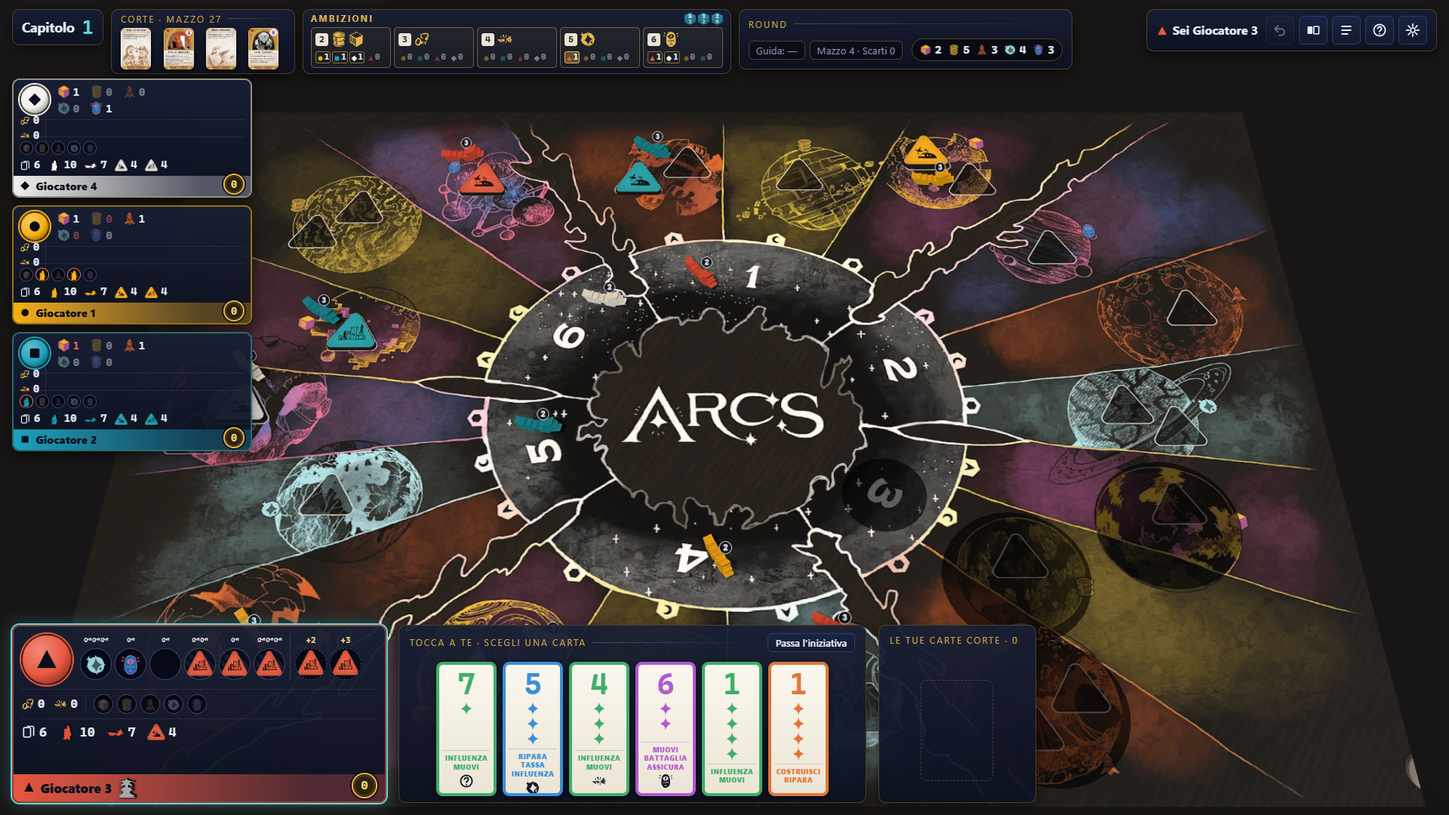
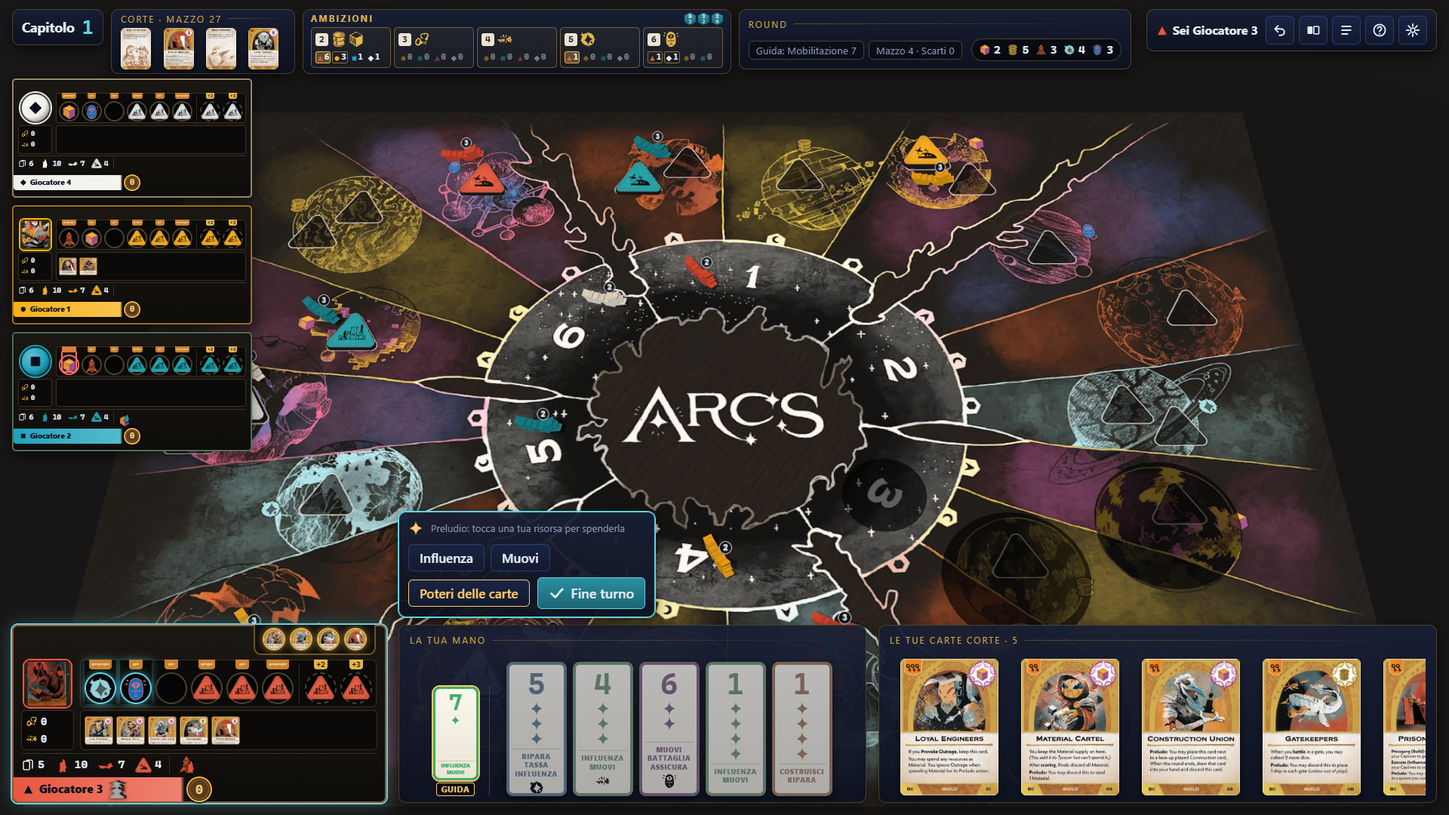
feat: seat boards laid out like the owner's reference
Leader picture top left, prelude tab top right (cards with a prelude power
or a new action, lit and clickable when usable now), resource slots with
key tabs and the unbuilt cities on them, captives and trophies beside the
guild cards (hover to zoom), reserve and Outraged resources (covered by an
agent), name bar with the power ring. Rivals get the same board, smaller.

Story: table roadmap step 3 (player board)

diff --git a/src/ui/table/table.css b/src/ui/table/table.css
@@ -582,66 +582,6 @@ button.supply:hover { border-color: var(--rule-hi); }
 .amb-t .tl.first { background: rgba(230, 181, 74, .32); box-shadow: inset 0 0 0 1px var(--gold); }
 .amb-t .tl.second { box-shadow: inset 0 0 0 1px rgba(230, 181, 74, .55); }
 
-/* Seat boards (local and rivals) */
-.board { position: relative; font: inherit; color: inherit; text-align: left; display: grid; gap: 5px; align-content: start; padding: 8px 10px 0; overflow: hidden;
-  background: linear-gradient(180deg, rgba(24, 31, 52, .95), rgba(12, 17, 32, .95)); border: 2px solid color-mix(in srgb, var(--seat) 50%, #3a3220); border-radius: 10px; box-shadow: 0 6px 18px #0008; }
-.board.active { box-shadow: 0 0 0 2px var(--rule-hi), 0 0 24px rgba(95, 212, 230, .35); }
-.board .b-top { display: flex; gap: 10px; align-items: flex-start; }
-.board .b-mid { display: flex; gap: 10px; align-items: center; min-height: 34px; padding: 3px 0; border-top: 1px solid #ffffff14; border-bottom: 1px solid #ffffff14; }
-.board .spoils { display: flex; gap: 12px; padding-right: 10px; border-right: 1px solid #ffffff14; }
-.board .st { display: inline-flex; align-items: center; gap: 4px; }
-.board .st .ic { width: 18px; height: 18px; }
-.board .st .pc { width: 21px; height: 21px; object-fit: contain; }
-.board .stats { background: none; padding: 0; gap: 16px; flex-wrap: nowrap; font-size: .95em; border-radius: 0; }
-.board .name-bar { margin: 1px -10px 0; padding: 4px 10px 4px 12px; display: flex; align-items: center; gap: 7px; font-weight: 800;
-  background: linear-gradient(90deg, var(--seat), color-mix(in srgb, var(--seat) 30%, #10162a) 80%); color: #0b0f1c; }
-.board .name-bar .seat-c, .board .name-bar .init-mark { color: #0b0f1c; display: inline-flex; }
-.board .name-bar .pow { margin-left: auto; width: 34px; height: 34px; margin-top: -12px; margin-bottom: -6px; border-radius: 50%; display: grid; place-items: center;
-  background: radial-gradient(circle, #2a2210 58%, #6b5320 60%, #2a2210 66%); border: 2px solid var(--gold); color: var(--gold-hi); font-size: 16px; box-shadow: 0 0 0 2px #000a; }
-.board .portrait-btn { background: none; border: 0; padding: 0; cursor: pointer; border-radius: 50%; }
-.board.local { height: 100%; }
-.board.local .portrait { width: 64px; height: 64px; font-size: 32px; }
-.board .slots { gap: 5px; padding-top: 0; align-items: flex-end; }
-.board .slot { width: 40px; height: auto; display: grid; grid-template-rows: 14px 40px; gap: 3px; background: none; border: 0; border-radius: 0; font-size: 26px; place-items: center; }
-.board .slot .keys { position: static; background: none; border: 0; padding: 0; justify-content: center; color: var(--gold); gap: 0; font-size: 11px; }
-.board .slot .keys .ic { width: 9px; height: 9px; }
-.board .slot .keys.plus { color: var(--gold-hi); }
-.board .slot .well { width: 40px; height: 40px; display: grid; place-items: center; border-radius: 50%; background: #070b17; border: 1px solid #3a4468; box-shadow: inset 0 2px 6px #000a; }
-.board .slot.locked { background: none; }
-.board .slot.locked .well { background: repeating-linear-gradient(45deg, #0a0f1e 0 5px, #151d33 5px 10px); color: var(--text-faint); font-size: 16px; }
-.board .slot .on-city .pc { width: 34px; height: 34px; }
-.board .slot.bonus .well { border-style: dashed; }
-.board .slot.spend { cursor: pointer; box-shadow: none; }
-.board .slot.spend .well { border-color: var(--rule-hi); box-shadow: 0 0 10px rgba(95, 212, 230, .55); }
-.board .slot.chosen .well { box-shadow: var(--select); }
-.board .slot.outraged::after { inset: 17px 0 0; border-radius: 50%; }
-.board .slot-sep { width: 1px; align-self: stretch; background: #ffffff22; margin: 0 2px; }
-.board .outrage { display: flex; gap: 5px; align-items: center; }
-.board .o-space { position: relative; width: 26px; height: 26px; border-radius: 50%; display: grid; place-items: center; background: #070b17; border: 1px solid #3a4468; box-shadow: inset 0 2px 5px #000a; }
-.board .o-space .o-res { display: inline-flex; font-size: 16px; opacity: .55; filter: grayscale(.4); }
-.board .o-space.on { border-color: var(--danger); }
-.board .o-space .o-agent { position: absolute; inset: -3px; display: grid; place-items: center; }
-.board .o-space .o-agent .pc { width: 24px; height: 24px; object-fit: contain; filter: drop-shadow(0 2px 2px #000c); }
-.board.rival .outrage { gap: 3px; padding: 2px 0 1px; }
-.board.rival .o-space { width: 18px; height: 18px; }
-.board.rival .o-space .o-res { font-size: 11px; }
-.board.rival .o-space .o-agent .pc { width: 17px; height: 17px; }
-.tbl-stage .rivals .board.rival { width: 318px; height: 158px; flex: none; cursor: pointer; padding: 6px 8px 0; gap: 3px; }
-.board.rival .portrait { width: 40px; height: 40px; font-size: 20px; }
-.board.rival .held { display: grid; grid-template-columns: repeat(3, auto); gap: 1px 14px; font-size: .9em; }
-.board.rival .held .ic { width: 17px; height: 17px; }
-.board.rival .held .st.zero { opacity: .45; }
-.board.rival .held .st.outraged b { color: var(--danger); }
-.board.rival .b-mid { min-height: 0; padding: 2px 0; }
-.board.rival .spoils { flex-direction: column; gap: 1px; font-size: .85em; padding-right: 8px; }
-.board.rival .spoils .ic { width: 14px; height: 14px; }
-.board.rival .mini-card, .board.rival .mini-card.has-art { width: 26px; height: 36px; }
-.board.rival .mini-cards { flex-wrap: nowrap; }
-.board.rival .stats { gap: 11px; font-size: .86em; }
-.board.rival .stats .ic { width: 15px; height: 15px; }
-.board.rival .stats .pc { width: 17px; height: 17px; }
-.board.rival .name-bar { margin: 1px -8px 0; padding: 3px 8px; font-size: .9em; }
-.board.rival .name-bar .pow { width: 28px; height: 28px; font-size: 14px; margin-top: -9px; margin-bottom: -4px; }
 
 /* Hand title with the pass and redraw buttons */
 .hand-top { display: flex; align-items: center; gap: 8px; margin-bottom: 2px; }
@@ -667,19 +607,6 @@ button.supply:hover { border-color: var(--rule-hi); }
 
 /* Layout v3 fixes */
 .tbl-stage .round-strip .chips { flex-wrap: nowrap; max-width: none; }
-.board .spoils .ic { color: var(--gold); }
-.board .name-bar .init-img { width: 26px; height: 26px; margin: -6px 0; filter: drop-shadow(0 1px 2px #0009); }
-.board.local { grid-template-rows: auto auto auto 1fr; padding-top: 10px; }
-.board.local .name-bar { align-self: end; padding-top: 6px; padding-bottom: 6px; font-size: 1.05em; }
-.board.local .portrait { width: 68px; height: 68px; font-size: 34px; }
-.board.local .slots { gap: 4px; }
-.board.local .slot { width: 42px; grid-template-rows: 16px 42px; }
-.board.local .slot .well { width: 42px; height: 42px; }
-.board.local .slot .keys .ic { width: 11px; height: 11px; }
-.board.local .b-mid { min-height: 40px; }
-.board.local .stats { font-size: 1.05em; }
-.board.local .stats .ic { width: 20px; height: 20px; }
-.board.local .stats .pc { width: 24px; height: 24px; }
 .tbl .sr-only { position: absolute; width: 1px; height: 1px; overflow: hidden; clip-path: inset(50%); white-space: nowrap; }
 .card-sheet .amb-glyph { grid-template-columns: 1fr; width: 150px; }
 .card-sheet .amb-glyph .big { display: flex; justify-content: center; gap: 4px; }
@@ -715,3 +642,70 @@ button.supply:hover { border-color: var(--rule-hi); }
 .amb-col { width: 106px; }
 /* A rival that has not played yet: nothing beside its board */
 .play.none { border: 0; background: none; }
+
+/* ---- Seat boards, drawn like the physical one (local and rivals; rivals at --u scale) ---- */
+.board { --u: 1px; position: relative; font: inherit; color: inherit; text-align: left; display: grid; grid-template-rows: auto 1fr auto; padding: 0; overflow: visible;
+  background: linear-gradient(180deg, #1b1712, #0f0d0b); border: 2px solid color-mix(in srgb, var(--seat) 35%, #6b5320); border-radius: calc(8 * var(--u)); box-shadow: 0 6px 18px #0008, inset 0 0 0 1px #000a; }
+.board.rival { --u: .64px; }
+.board.active { box-shadow: 0 0 0 2px var(--rule-hi), 0 0 24px rgba(95, 212, 230, .35); }
+.board.local { height: 100%; }
+.tbl-stage .rivals .board.rival { width: 318px; height: 158px; flex: none; cursor: pointer; }
+.board .pb-tab { grid-row: 1; justify-self: end; display: flex; gap: calc(6 * var(--u)); margin: calc(-2 * var(--u)) calc(12 * var(--u)) 0 0; padding: calc(4 * var(--u)) calc(10 * var(--u));
+  background: #0f0d0b; border: 2px solid #6b5320; border-top: 0; border-radius: 0 0 calc(10 * var(--u)) calc(10 * var(--u)); }
+.board .pre { width: calc(30 * var(--u)); height: calc(30 * var(--u)); padding: 0; border-radius: 50%; overflow: hidden; border: 2px solid #6b5320; background: #070b17; display: grid; place-items: center; opacity: .45; filter: grayscale(.8); }
+.board .pre img { width: 100%; height: 100%; object-fit: cover; transform: scale(1.8); transform-origin: 50% 32%; }
+.board .pre.lit { opacity: 1; filter: none; cursor: pointer; border-color: var(--gold); box-shadow: 0 0 10px rgba(230, 181, 74, .7); }
+.board .pre.lit:hover { transform: translateY(-2px); }
+.board .pb-body { grid-row: 2; display: grid; grid-template-columns: calc(70 * var(--u)) 1fr; grid-template-rows: auto 1fr auto; column-gap: calc(8 * var(--u)); row-gap: calc(4 * var(--u));
+  padding: calc(6 * var(--u)) calc(10 * var(--u)) calc(4 * var(--u)); align-content: stretch; }
+.board .pb-face { grid-row: 1; grid-column: 1; align-self: end; display: grid; justify-items: center; }
+.board .portrait { width: calc(62 * var(--u)); height: calc(62 * var(--u)); font-size: calc(30 * var(--u)); }
+.board .portrait.leader { border-radius: calc(8 * var(--u)); }
+.board .portrait.leader { overflow: hidden; }
+.board .portrait.leader img { object-fit: cover; transform: scale(1.9); transform-origin: 50% 30%; }
+.board .portrait-btn { background: none; border: 0; padding: 0; cursor: pointer; border-radius: 50%; }
+.board .slots { grid-row: 1; grid-column: 2; display: flex; gap: calc(5 * var(--u)); padding: 0 calc(6 * var(--u)) calc(4 * var(--u)); align-items: flex-end; justify-self: start;
+  background: #0b0a08; border-radius: calc(6 * var(--u)); box-shadow: inset 0 0 0 1px #3a3220; }
+.board .slot { width: calc(42 * var(--u)); height: auto; display: grid; grid-template-rows: calc(15 * var(--u)) calc(42 * var(--u)); gap: calc(2 * var(--u)); background: none; border: 0; border-radius: 0; font-size: calc(28 * var(--u)); place-items: center; padding: 0; color: inherit; }
+.board .slot .keys { position: static; align-self: start; display: inline-flex; justify-content: center; gap: 0; padding: 0 calc(3 * var(--u)); min-width: calc(18 * var(--u)); height: calc(13 * var(--u));
+  background: #c9822b; color: #2a1606; border: 0; border-radius: 0 0 calc(4 * var(--u)) calc(4 * var(--u)); font: 800 calc(10 * var(--u)) var(--font-num); align-items: center; }
+.board .slot .keys .ic { width: calc(8 * var(--u)); height: calc(8 * var(--u)); }
+.board .slot .keys:empty { visibility: hidden; }
+.board .slot .keys.plus { background: var(--gold); }
+.board .slot .well { width: calc(42 * var(--u)); height: calc(42 * var(--u)); display: grid; place-items: center; border-radius: 50%; background: #050506; border: 2px solid #4a4130; box-shadow: inset 0 2px 6px #000c; }
+.board .slot .well .ic { width: calc(30 * var(--u)); height: calc(30 * var(--u)); }
+.board .slot.locked .well { background: #050506; color: var(--text-faint); font-size: calc(16 * var(--u)); }
+.board .slot .on-city .pc { width: calc(36 * var(--u)); height: calc(36 * var(--u)); object-fit: contain; }
+.board .slot.bonus .well { border-style: dashed; }
+.board .slot.spend { cursor: pointer; }
+.board .slot.spend .well { border-color: var(--rule-hi); box-shadow: 0 0 10px rgba(95, 212, 230, .6); }
+.board .slot.spend:hover .well { transform: translateY(-2px); }
+.board .slot.chosen .well { box-shadow: var(--select); }
+.board .slot.outraged .well { border-color: var(--danger); }
+.board .slot-sep { width: 1px; align-self: stretch; background: #ffffff22; margin: calc(6 * var(--u)) calc(2 * var(--u)) 0; }
+.board .spoils { grid-row: 2; grid-column: 1; display: grid; gap: calc(2 * var(--u)); align-content: center; padding: calc(3 * var(--u)) calc(6 * var(--u));
+  background: #0b0a08; border-radius: calc(6 * var(--u)); box-shadow: inset 0 0 0 1px #3a3220; font-size: calc(14 * var(--u)); }
+.board .spoils .ic { width: calc(16 * var(--u)); height: calc(16 * var(--u)); color: var(--gold); }
+.board .st { display: inline-flex; align-items: center; gap: calc(4 * var(--u)); }
+.board .pb-guild { grid-row: 2; grid-column: 2; display: flex; align-items: center; min-height: calc(42 * var(--u)); padding: calc(3 * var(--u)) calc(6 * var(--u));
+  background: #0b0a08; border-radius: calc(6 * var(--u)); box-shadow: inset 0 0 0 1px #3a3220; }
+.board .mini-cards { flex-wrap: nowrap; gap: calc(4 * var(--u)); }
+.board .mini-card, .board .mini-card.has-art { width: calc(38 * var(--u)); height: calc(38 * var(--u)); border-radius: calc(4 * var(--u)); border: 1px solid #6b5320; }
+.board .mini-card img { object-position: 50% 30%; }
+.board .pb-low { grid-row: 3; grid-column: 1 / -1; display: flex; align-items: center; min-height: calc(28 * var(--u)); border-top: 1px solid #3a3220; padding-top: calc(3 * var(--u)); }
+.board .stats { display: flex; background: none; padding: 0 calc(10 * var(--u)) 0 0; gap: calc(14 * var(--u)); flex-wrap: nowrap; border-radius: 0; font-size: calc(15 * var(--u)); }
+.board .stats .ic { width: calc(18 * var(--u)); height: calc(18 * var(--u)); }
+.board .stats .pc { width: calc(22 * var(--u)); height: calc(22 * var(--u)); object-fit: contain; }
+.board .outrage { flex: 1; align-self: stretch; display: flex; gap: calc(6 * var(--u)); align-items: center; padding-left: calc(10 * var(--u)); border-left: 1px solid #3a3220; }
+.board .o-space { position: relative; width: calc(24 * var(--u)); height: calc(24 * var(--u)); display: grid; place-items: center; }
+.board .o-space .o-res .ic { width: calc(22 * var(--u)); height: calc(22 * var(--u)); }
+.board .o-space .o-agent { position: absolute; inset: 0; display: grid; place-items: center; }
+.board .o-space .o-agent .pc { width: calc(20 * var(--u)); height: calc(20 * var(--u)); object-fit: contain; filter: drop-shadow(0 1px 2px #000); transform: translate(calc(6 * var(--u)), calc(2 * var(--u))); }
+.board .name-bar { grid-row: 3; position: relative; display: flex; align-items: center; gap: calc(7 * var(--u)); padding: calc(5 * var(--u)) calc(12 * var(--u)); font-weight: 800; font-size: calc(15 * var(--u));
+  border-radius: 0 0 calc(6 * var(--u)) calc(6 * var(--u)); background: linear-gradient(90deg, var(--seat) 0, color-mix(in srgb, var(--seat) 75%, #fff) 45%, transparent 46%); color: #0b0f1c; }
+.board .name-bar .seat-c, .board .name-bar .init-mark { color: #0b0f1c; display: inline-flex; }
+.board .name-bar .init-img { width: calc(24 * var(--u)); height: calc(24 * var(--u)); margin: calc(-6 * var(--u)) 0; filter: drop-shadow(0 1px 2px #0009); }
+.board .name-bar .nm { max-width: 38%; overflow: hidden; text-overflow: ellipsis; white-space: nowrap; }
+.board .name-bar .pow { position: absolute; left: 50%; top: 50%; transform: translate(-50%, -50%); width: calc(34 * var(--u)); height: calc(34 * var(--u)); border-radius: 50%; display: grid; place-items: center;
+  background: radial-gradient(circle, #5a3a1a 55%, #8a5a26 58%, #3a2410 70%); border: 2px solid var(--gold); color: var(--gold-hi); font-size: calc(17 * var(--u)); box-shadow: 0 0 0 2px #000a; }
+

diff --git a/src/ui/table/render.ts b/src/ui/table/render.ts
@@ -149,29 +149,64 @@ function slotsHtml(p: PlayerView, t: Translate, spendable: ReadonlySet<number>, 
   return `<div class="slots">${slots}${bonus ? `<span class="slot-sep"></span>${bonus}` : ''}</div>`;
 }
 
-/** Resource tokens held, as counts by type (rival boards). Outraged types are marked. */
-function heldCounts(p: PlayerView, t: Translate): string {
-  return `<div class="held">${p.held
-    .map((h) => `<span class="st${p.outraged.includes(h.resource) ? ' outraged' : ''}${h.count ? '' : ' zero'}" title="${esc(t(`resource.${h.resource}`))}">${resIcon(h.resource, t)}<b class="num">${h.count}</b></span>`)
-    .join('')}</div>`;
-}
-
 /**
- * The Outrage row of a seat board, as on the physical one: a round space per
- * resource type with its icon printed faint; an Outraged type is covered by
- * one of the seat's agents.
+ * The Outrage corner of a seat board: each Outraged resource type, covered by
+ * one of the seat's agents (empty when none).
  */
 function outrage(p: PlayerView, t: Translate): string {
   const agent = pieceIcon('agent', p.id, t('stat.agents'));
-  const spaces = p.held
-    .map((h) => {
-      const label = t(`resource.${h.resource}`);
-      const on = p.outraged.includes(h.resource);
-      const title = on ? t('outraged', { list: label }) : label;
-      return `<span class="o-space${on ? ' on' : ''}" title="${esc(title)}"><span class="o-res">${resIcon(h.resource, t)}</span>${on ? `<span class="o-agent">${agent}</span>` : ''}</span>`;
+  const spaces = p.outraged
+    .map((r) => {
+      const label = t(`resource.${r}`);
+      return `<span class="o-space" title="${esc(t('outraged', { list: label }))}"><span class="o-res">${resIcon(r, t)}</span><span class="o-agent">${agent}</span></span>`;
     })
     .join('');
   return `<div class="outrage" aria-label="${esc(t('outrage.row'))}">${spaces}</div>`;
+}
+
+/** The leader's picture when the seat has a leader card with art, else the seat portrait. */
+function leaderPortrait(p: PlayerView): string {
+  const art = p.leader ? cardArt(p.leader) : null;
+  return art ? `<div class="portrait leader"><img src="${esc(art)}" alt=""></div>` : portrait(p.id);
+}
+
+/** A card with a prelude power on the board's tab: lit (and clickable) when it can be used now. */
+export interface PreludeCard {
+  card: string;
+  lit: boolean;
+}
+
+function preludeTab(cards: readonly PreludeCard[], t: Translate): string {
+  if (!cards.length) return '';
+  const btns = cards
+    .map((c) => {
+      const art = cardArt(c.card);
+      const face = art ? `<img src="${esc(art)}" alt="">` : icon('court');
+      return c.lit
+        ? `<button type="button" class="pre lit" data-act="powers-open" data-zoom="${esc(c.card)}" title="${esc(t('powers.title'))}">${face}</button>`
+        : `<span class="pre" data-zoom="${esc(c.card)}" title="${esc(c.card)}">${face}</span>`;
+    })
+    .join('');
+  return `<div class="pb-tab" aria-label="${esc(t('powers.title'))}">${btns}</div>`;
+}
+
+/**
+ * A seat board drawn like the physical one (local and rivals alike, rivals
+ * smaller): the leader top left, the prelude tab top right, the resource
+ * slots with their keys and the unbuilt cities on them; captives and
+ * trophies beside the guild cards; the reserve and the Outraged resources;
+ * the name bar with the power in a ring.
+ */
+function seatBoard(p: PlayerView, t: Translate, o: { spendable: ReadonlySet<number>; chosen: number | null; preludes: readonly PreludeCard[]; maxCards: number; head: string }): string {
+  return `${preludeTab(o.preludes, t)}
+    <div class="pb-body">
+      <div class="pb-face">${o.head}</div>
+      ${slotsHtml(p, t, o.spendable, o.chosen)}
+      ${spoils(p, t)}
+      <div class="pb-guild">${miniCards([...p.court, ...p.lore], o.maxCards)}</div>
+      <div class="pb-low">${stats(p, t, false)}${outrage(p, t)}</div>
+    </div>
+    ${nameBar(p, t)}`;
 }
 
 function miniCards(cards: string[], max: number): string {
@@ -205,32 +240,23 @@ export function playedCard(ix: ContentIndex, v: TableView, t: Translate, player:
 }
 
 /**
- * One rival's board (click opens their details), drawn like the local one but
- * smaller: portrait and resources held by type; captives, trophies and Court
- * cards; pieces in supply; name and power. The card they played sits beside it.
+ * One rival's board (click opens their details), drawn like the local one
+ * but smaller. The card they played sits beside it.
  */
 export function rivalPanel(ix: ContentIndex, v: TableView, p: PlayerView, t: Translate): string {
-  return `<div class="rival-wrap"><button type="button" class="board rival s-${p.id % 4}${p.isActive ? ' active' : ''}" data-act="seat-detail" data-player="${p.id}" aria-label="${esc(playerName(t, p.id))}">
-    <div class="b-top">${portrait(p.id)}${heldCounts(p, t)}</div>
-    <div class="b-mid">${spoils(p, t)}${miniCards(p.court, 5)}</div>
-    ${outrage(p, t)}
-    ${stats(p, t, true)}
-    ${nameBar(p, t)}
+  return `<div class="rival-wrap"><button type="button" class="board pb rival s-${p.id % 4}${p.isActive ? ' active' : ''}" data-act="seat-detail" data-player="${p.id}" aria-label="${esc(playerName(t, p.id))}">
+    ${seatBoard(p, t, { spendable: new Set(), chosen: null, preludes: [], maxCards: 6, head: leaderPortrait(p) })}
   </button>${playedCard(ix, v, t, p.id)}</div>`;
 }
 
 /**
- * The local seat's board: portrait and resource slots with the unbuilt cities
- * on them (a slot is clickable when its token can be spent); captives,
- * trophies and outrage; pieces in supply; name and power. Its Court cards
- * have their own box (ownedPanel).
+ * The local seat's board, like the physical one: a slot is clickable when its
+ * token can be spent; the prelude tab lights the cards whose power can be used now.
  */
-export function localPanel(p: PlayerView, t: Translate, spendable: ReadonlySet<number>, chosen: number | null): string {
-  return `<div class="board local s-${p.id % 4}${p.isActive ? ' active' : ''}">
-    <div class="b-top"><button type="button" class="portrait-btn" data-act="seat-detail" data-player="${p.id}" aria-label="${esc(playerName(t, p.id))}">${portrait(p.id)}</button>${slotsHtml(p, t, spendable, chosen)}</div>
-    <div class="b-mid">${spoils(p, t)}${outrage(p, t)}</div>
-    ${stats(p, t, false)}
-    ${nameBar(p, t)}
+export function localPanel(p: PlayerView, t: Translate, spendable: ReadonlySet<number>, chosen: number | null, preludes: readonly PreludeCard[] = []): string {
+  const head = `<button type="button" class="portrait-btn" data-act="seat-detail" data-player="${p.id}" aria-label="${esc(playerName(t, p.id))}">${leaderPortrait(p)}</button>`;
+  return `<div class="board pb local s-${p.id % 4}${p.isActive ? ' active' : ''}">
+    ${seatBoard(p, t, { spendable, chosen, preludes, maxCards: 9, head })}
   </div>`;
 }
 

diff --git a/src/ui/table/table.ts b/src/ui/table/table.ts
@@ -24,7 +24,7 @@ import type { Intent } from './intent';
 import { place, REGIONS, STAGE, placeUp } from './layout';
 import { mapSvg } from './mapview';
 import {
-  ambitionsStrip, button, cardLabel, playedText, cardPicker, courtFace, courtPanel, declareGlyphs, esc, handPanel, header, largeCard, localPanel, ownedPanel, PICKER_PAGE, playerName, rivalPanel,
+  ambitionsStrip, button, cardLabel, playedText, cardPicker, courtFace, courtPanel, declareGlyphs, type PreludeCard, esc, handPanel, header, largeCard, localPanel, ownedPanel, PICKER_PAGE, playerName, rivalPanel,
 } from './render';
 import type { PickerGroup, PickerState } from './render';
 import { legal, othersTurn, tableView } from './view';
@@ -228,6 +228,25 @@ export function mountTable(root: HTMLElement, online?: TableOnline): TableHandle
       const e = effectOf(ix, c);
       return v.phase === 'actions' ? !!(e?.prelude || e?.actions) : !!e?.reroll;
     });
+  }
+
+  /**
+   * The local cards with a prelude power or a new action, for the board's
+   * prelude tab; lit when the power can be used in this phase on our turn.
+   */
+  function preludeCards(v: TableView): PreludeCard[] {
+    const pl = state.players[local()];
+    const live = myTurn() && hasPowers(v);
+    return [...pl.court, ...pl.lore, ...(pl.leader ? [pl.leader] : [])]
+      .filter((c) => {
+        const e = effectOf(ix, c);
+        return !!(e?.prelude || e?.actions || e?.reroll);
+      })
+      .map((card) => {
+        const e = effectOf(ix, card);
+        const now = v.phase === 'actions' ? !!(e?.prelude || e?.actions) : v.phase === 'allocate' ? !!e?.reroll : false;
+        return { card, lit: live && now };
+      });
   }
 
   function partText(p: DecisionPart): string {
@@ -685,7 +704,7 @@ export function mountTable(root: HTMLElement, online?: TableOnline): TableHandle
       <div class="region header" data-region="header" style="${place(REGIONS.header)}">${header(v, t, source === 'example', courtPanel(v, t, courtPickable(intent)), ambitionsStrip(ix, v, t), undo)}</div>
       <div class="map-area${board3d ? '' : ' glass'}" data-region="map" style="${place(REGIONS.map)}">${board3d ? map3dOverlay(v, valid) : mapSvg(ix, v, valid, chosen, t)}</div>
       <div class="region rivals" data-region="rivals" style="${place(REGIONS.rivals)}">${rivals}</div>
-      <div class="region" data-region="local" style="${place(REGIONS.local)}">${localPanel(v.players[me], t, spendableSlots(v), null)}</div>
+      <div class="region" data-region="local" style="${place(REGIONS.local)}">${localPanel(v.players[me], t, spendableSlots(v), null, preludeCards(v))}</div>
       <div class="region glass hand" data-region="hand" style="${place(REGIONS.hand)}">${handPanel(ix, v, t, selected, choosing, seizeWith, handTools)}</div>
       <div class="region glass owned${v.players[me].court.length ? '' : ' empty'}" data-region="owned" style="${place(REGIONS.owned)};--w:${REGIONS.owned.w}px">${ownedPanel(ix, v.players[me], t)}</div>
       ${ctx ? `<div class="region glass actions${myTurn() ? ' mine' : ''}" data-region="actions" role="group" aria-label="${esc(prompt(v))}" style="${placeUp(REGIONS.actions)}"><div class="actions-body">${ctx}</div></div>` : ''}

diff --git a/tests/unit/ui/board-outrage.test.ts b/tests/unit/ui/board-outrage.test.ts
@@ -1,5 +1,6 @@
-// The Outrage row of the seat boards (src/ui/table/render.ts): one space per
-// resource type, covered by the seat's agent when that type is Outraged.
+// The seat boards (src/ui/table/render.ts): the Outrage corner shows each
+// Outraged resource covered by the seat's agent; the prelude tab lights the
+// cards whose power can be used now.
 import { describe, expect, it } from 'vitest';
 import { localPanel, rivalPanel } from '../../../src/ui/table/render';
 import { tableView } from '../../../src/ui/table/view';
@@ -8,14 +9,23 @@ import { game, index } from '../engine/fixture';
 const t = (key: string) => key;
 const count = (html: string, needle: string) => html.split(needle).length - 1;
 
-describe('outrage row', () => {
+describe('seat board', () => {
   const ix = index();
 
-  it('shows one empty space per resource type when nothing is Outraged', () => {
+  it('leaves the outrage corner empty when nothing is Outraged', () => {
     const v = tableView(ix, game(ix, 3, 7, 0), 0);
     const html = localPanel(v.players[0], t, new Set(), null);
-    expect(count(html, 'class="o-space"')).toBe(v.players[0].held.length);
-    expect(html).not.toContain('o-agent');
+    expect(html).toContain('class="outrage"');
+    expect(html).not.toContain('o-space');
+  });
+
+  it('draws the prelude tab only with cards, lit ones as buttons', () => {
+    const v = tableView(ix, game(ix, 3, 7, 0), 0);
+    expect(localPanel(v.players[0], t, new Set(), null)).not.toContain('pb-tab');
+    const html = localPanel(v.players[0], t, new Set(), null, [{ card: 'a', lit: true }, { card: 'b', lit: false }]);
+    expect(count(html, 'class="pre lit"')).toBe(1);
+    expect(count(html, 'class="pre"')).toBe(1);
+    expect(html).toContain('data-act="powers-open"');
   });
 
   it('covers each Outraged type with an agent, on local and rival boards', () => {
@@ -23,8 +33,8 @@ describe('outrage row', () => {
     s.players[1].outraged = ['fuel', 'relic'];
     const v = tableView(ix, s, 0);
     const html = rivalPanel(ix, v, v.players[1], t);
-    expect(count(html, 'class="o-space on"')).toBe(2);
+    expect(count(html, 'class="o-space"')).toBe(2);
     expect(count(html, 'class="o-agent"')).toBe(2);
-    expect(count(localPanel(v.players[1], t, new Set(), null), 'class="o-space on"')).toBe(2);
+    expect(count(localPanel(v.players[1], t, new Set(), null), 'class="o-agent"')).toBe(2);
   });
 });

diff --git a/src/ui/table/view.ts b/src/ui/table/view.ts
@@ -53,6 +53,9 @@ export interface PlayerView {
   stats: { trophies: number; captives: number; ships: number; cities: number; starports: number; agents: number };
   /** Court cards the player holds. */
   court: string[];
+  /** Leaders & Lore: the player's leader card and lore cards (none in the base game). */
+  leader: string | null;
+  lore: string[];
   /** Rival pieces taken as trophies: whose, and what. */
   trophies: { owner: PlayerId; piece: string }[];
   /** Rival agents held captive, by owner. */
@@ -210,6 +213,8 @@ function playerView(ix: ContentIndex, s: GameState, id: PlayerId): PlayerView {
       agents: p.supply.agents,
     },
     court: [...p.court],
+    leader: p.leader ?? null,
+    lore: [...(p.lore ?? [])],
     trophies: p.trophies.map((x) => ({ owner: x.owner, piece: x.piece })),
     captives: [...p.captives],
     cities: Array.from({ length: ix.content.citiesPerPlayer }, (_, i) => ({
